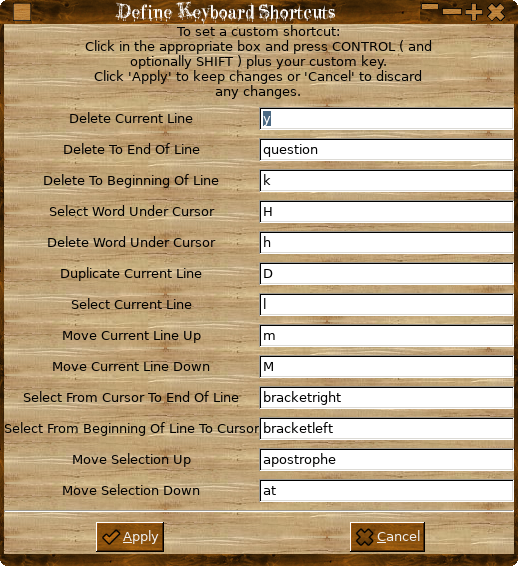
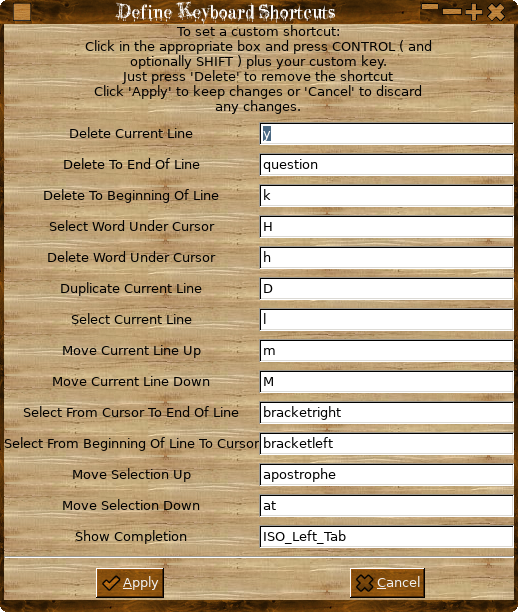
redone help
git-svn-id: file:///media/LinuxData/Development/SVN/KKEdit@1010 923dfa19-3233-4c9e-86b8-84ae44b222e5

diff --git a/KKEdit/resources/help/help.html b/KKEdit/resources/help/help.html
@@ -264,6 +264,7 @@
 
 
 
+
                           In Popup" selected will show in the popup menu
                           regardless of w<font size="-1">hether any text
                             is or is not selected.<br>
@@ -280,6 +281,7 @@
                                   size="-1"><font size="-1"><font
                                       size="-1"><font size="-1"><font
                                           size="-1">/tmp/textfile</font></font></font></font></font></font></font></font></font>"|tail
+
 
 
 
@@ -379,10 +381,12 @@
 
 
 
+
                               of xterm and beyond</font></font> my
                           control :(<br>
                           <br>
                         </font>For very </font></font></font></font></font></font></font></font>complex
+
 
 
 
@@ -485,6 +489,7 @@
 
 
 
+
         one in /usr/share/KKEdit/tools ) you must have root privileges.<br>
         <br>
         You can also display a progress bar from your tool by selecting
@@ -510,7 +515,11 @@
       <hr size="2" width="100%"><br>
       <b><a name="prefsanc"></a></b><b>Preferences</b><br>
       <br>
-      <img alt="prefs" src="prefs.png" width="844" height="648"><br>
+      <img alt="prefs" src="prefs.png" width="637" height="573"><br>
+      <br>
+      <img alt="" src="prefs2.png" width="637" height="573"><br>
+      <br>
+      <img alt="" src="prefs3.png" width="637" height="573"><br>
       <br>
       <font size="-1">The Prefs file is created ~/.KKEdit/kkedit.rc and
         will be created/recreated when quitting KKEdit.<br>
@@ -544,6 +553,7 @@
 
 
 
+
             here</a> ), the 'Terminal command' will be used to open a
           terminal, if this is blank then the default 'xterm -e' will be
           used. <br>
@@ -552,7 +562,7 @@
           <br>
           You can also customize the keyboard shortcuts from here, just
           click the button and you will get a dialog popup like so:<br>
-          <img alt="" src="keycuts.png" width="518" height="566"><br>
+          <img alt="" src="keycuts.png" width="518" height="612"><br>
           To change the default shortcut click in the relevant box and
           press a CONTROL key and your choice of keys with or without
           SHIFT, shortcuts MUST use CONTROL.<br>
@@ -575,7 +585,7 @@
         default installed themes ) or locally in ~/.gnome2/gedit/styles,
         for compatability with gedit as most gktsourceview themes seem
         to be gedit-centric ;)<br>
-        <img alt="" src="style.png" width="688" height="514"><br>
+        <img alt="" src="style.png" width="637" height="573"><br>
         <br>
         <br>
         <a name="customtoolbar"></a></font><b>Customize The Tool Bar</b><font
@@ -638,6 +648,7 @@
           <img alt="popup" src="popup.png" width="606" height="640"><br>
           <br>
         </font></font><font size="-1"><a name="spellchk"></a></font><b>Spell
+
 
 
 
@@ -823,6 +834,7 @@
 
 
 
+
                         here</a><font size="-1"> )<font size="-1">, use
                           'gtksu --', ubuntu users may have to use
                           'gtksu -- sudo' to stop gtk3 complaining,
@@ -859,6 +871,7 @@
                                               uses regex expressions<font
                                                 size="-1">, the quick
                                                 search <font size="-1">on
+
 
 
 
@@ -949,10 +962,12 @@
 
 
 
+
                                                     does not,<font
                                                       size="-1">
                                                       searching
                                                       backwards </font>can
+
 
 
 
@@ -1057,7 +1072,9 @@
 
 
 
+
                                                         <font size="-1">A</font>ll'
+
 
 
 
@@ -1108,6 +1125,7 @@
                                                         confirm the
                                                         action.<br>
                                                         <font size="-1">The
+
 
 
 
@@ -1207,6 +1225,7 @@
 
 
 
+
         can jump to a line using the toolbar entry:</font><br>
       <img alt="jumptoline" src="gotolinefromtoolbar.png" width="736"
         height="351"><br>
@@ -1235,6 +1254,25 @@
         You can also turn on/off various bits and peices from the 'View'
         menu:<br>
         <img alt="" src="viewmenu.png" width="703" height="329"><br>
+      </font><b>Code Completion</b><font size="-1"><br>
+        If you have turned on 'Auto Show Completion' in the prefs then
+        as you type you will be shown various code completion options
+        like so:<br>
+        <img alt="" src="autocomp1.png" width="578" height="489"><br>
+        The amount of letters in word before the pop up appears is set
+        in the prefs.<br>
+        <br>
+        You can also force the completion dialog to pop up by using a
+        keyboard shortcut ( set via the prefs ) like so:<br>
+        <img alt="" src="autocomp2.png" width="603" height="486"><br>
+        As you can see in the above you can add a list of custom words
+        to add to the completion dialog by simpley creating the file
+        ~/.KKEdit/customcompletions and adding words to it, the file
+        MUST end in a newline, if the file does not exist no 'Custom
+        Words' option will be shown.<br>
+        Function and variable completions will show the definition when
+        the 'Details' button is toggled on, custom and document words
+        have no extra details. <br>
         <br>
       </font><b>Create </b><b>D</b><b>ocumentation with Doxygen</b><br>
       <img alt="" src="docs.png" width="808" height="636"><br>
@@ -1430,6 +1468,7 @@ href="https://sites.google.com/site/kkeditlinuxtexteditor/kkedit-plugins"
 
 
 
+
                                 but recommended)<br>
                                 Glib-Networking </font></font></font></font></font></font></font></font></font></font></font></font></font><font
         size="-1"><font size="-1"><font size="-1"><font size="-1"><font
@@ -1496,10 +1535,12 @@ href="https://sites.google.com/site/kkeditlinuxtexteditor/kkedit-plugins"
 
 
 
+
                                                           but
                                                           recommended)<br>
                                                           <br>
                                                         </font></font></font></font></font></font></font></font></font></font></font></font></font>&nbsp;</font></font></font></font></font></font></font></font></font></font></font></font>webkit
+
 
 
 
